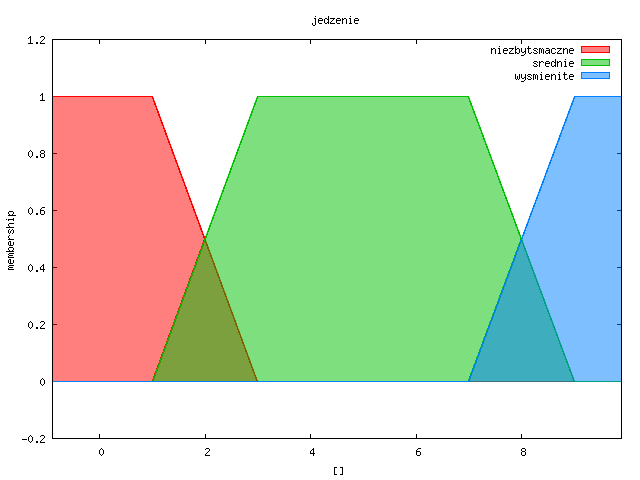
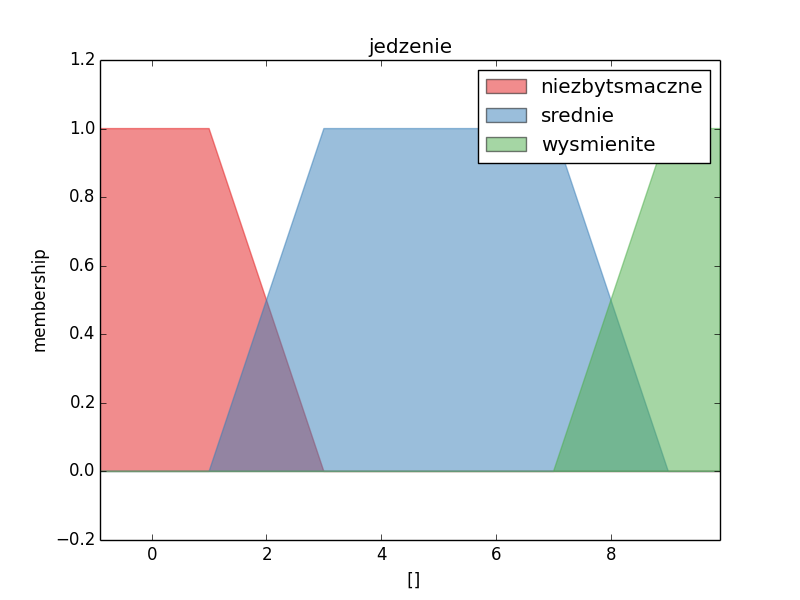
Matplot

diff --git a/matnapiwek.py b/matnapiwek.py
@@ -1,0 +1,41 @@
+#!/usr/bin/env python
+from fuzzy.storage.fcl.Reader import Reader
+from fuzzy.doc.plot.matplotlib.doc import Doc # less errors :)
+
+
+def main():
+    system = Reader().load_from_file("napiwek.fcl")
+
+    d = Doc(".")
+    d.createDoc(system)
+
+    input_variables = {
+        "obsluga": 3.,
+        "jedzenie": 8.,
+    }
+    output_variables = {
+        "napiwek": None
+    }
+    system.calculate(input_variables, output_variables)
+    print(output_variables)
+    d.createDocSets(
+        {"accumulated": system.variables["napiwek"].defuzzify.accumulated_set},
+        "accumulated set"
+    )
+    d.createDocSets(system.variables["napiwek"].defuzzify.activated_sets, "activated sets")
+
+
+    #other possibilitis:
+    import matplotlib.pyplot as plt
+    plt.figure(5)
+    d.build2DPlot(plt.gca(), system, "obsluga", "napiwek")
+
+    plt.figure(6)
+    d.build3DPlot(plt.gca(projection="3d"), system, 'obsluga', 'jedzenie', 'napiwek',
+                  input_dict = { name: 0.0 for name in system.variables.keys()})
+
+    plt.show()
+
+
+if __name__ == '__main__':
+    main()

diff --git a/napiwek.py b/napiwek.py
@@ -20,6 +20,8 @@ def main():
     }
     system.calculate(input_variables, output_variables)
     print(output_variables)
+    d.createDocSets({"accumulated": system.variables["napiwek"].defuzzify.accumulated_set}, "accumulated set")
+
 
 if __name__ == '__main__':
     main()
